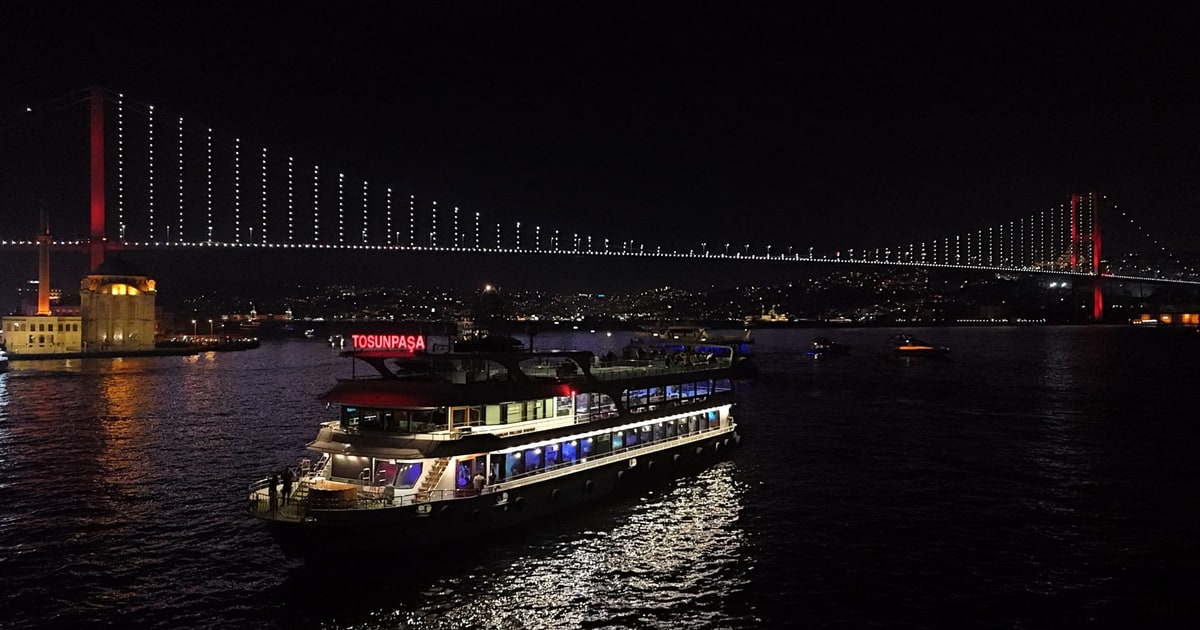
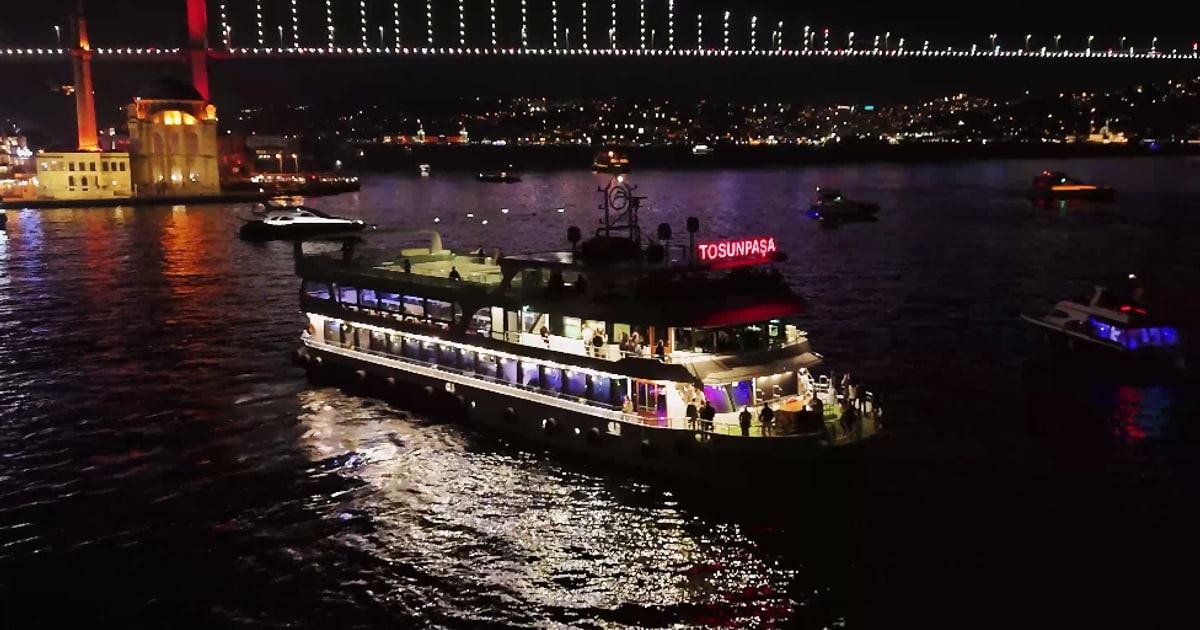
fix: halal badge wording + new og-image (TOSUNPAŞA drone night shot)
Çözüm 1 — halalTax badge updated across 15 languages:
  OLD: "Halal · All taxes incl." (caused Google snippet to show just "Halal",
       misleading guests into thinking alcohol-free)
  NEW: "Halal options · Wine & cocktails · Taxes incl."
  Files: index.html:786,849 + js/translations.js + 9 ui-translations/*.json

Çözüm 2 — og-image replaced:
  Old: boat-night-bridge.jpg based (single lit boat, touristy feel)
  New: assets/data/og-image.jpg (1200x630, 129 KB, mozjpeg q88) from drone
       night shot — TOSUNPAŞA boat + Bosphorus Bridge + Ortaköy Mosque in
       one frame, clean composition, no watermarks or subtitles
  Source kept at assets/data/og-source.png for future re-cropping

Dev deps added: sharp, ffmpeg-static (for image pipeline)
Build verified: 1671 JSON-LD blocks, 0 validation errors.

diff --git a/index.html b/index.html
@@ -783,7 +783,7 @@
               <div class="flex flex-wrap gap-1.5 mb-4 text-[10px]">
                 <span class="text-white/40 bg-white/5 px-2 py-0.5 rounded-full border border-white/10">3hrs · 21:00</span>
                 <span class="text-gold/60 bg-gold/5 px-2 py-0.5 rounded-full border border-gold/10" data-i18n="dinner.privateTable">Private table</span>
-                <span class="text-white/40 bg-white/5 px-2 py-0.5 rounded-full border border-white/10" data-i18n="dinner.halalTax">Halal · All taxes incl.</span>
+                <span class="text-white/40 bg-white/5 px-2 py-0.5 rounded-full border border-white/10" data-i18n="dinner.halalTax">Halal options · Wine &amp; cocktails · Taxes incl.</span>
               </div>
               <div class="mb-4">
                 <p class="text-gold/70 text-[10px] uppercase tracking-wider font-semibold mb-1.5" data-i18n="dinner.menuLabel">What's Included</p>
@@ -846,7 +846,7 @@
               <div class="flex flex-wrap gap-1.5 mb-4 text-[10px]">
                 <span class="text-white/40 bg-white/5 px-2 py-0.5 rounded-full border border-white/10">3hrs · 21:00</span>
                 <span class="text-gold/60 bg-gold/5 px-2 py-0.5 rounded-full border border-gold/10" data-i18n="dinner.nearStage">Near the stage</span>
-                <span class="text-white/40 bg-white/5 px-2 py-0.5 rounded-full border border-white/10" data-i18n="dinner.halalTax">Halal · All taxes incl.</span>
+                <span class="text-white/40 bg-white/5 px-2 py-0.5 rounded-full border border-white/10" data-i18n="dinner.halalTax">Halal options · Wine &amp; cocktails · Taxes incl.</span>
               </div>
               <div class="mb-4">
                 <p class="text-gold/70 text-[10px] uppercase tracking-wider font-semibold mb-1.5" data-i18n="dinner.menuLabel">What's Included</p>

diff --git a/js/translations.js b/js/translations.js
@@ -1254,9 +1254,21 @@ const T = {
     fa: "لغو رایگان ۲ ساعت پیش", fr: "Annulation gratuite 2h", it: "Cancellazione gratuita 2h", zh: "2小时前免费取消", id: "Batal gratis 2 jam", ms: "Batal percuma 2jam", pl: "Bezpłatna anulacja 2h", bg: "Безплатна отмяна 2 ч.", ro: "Anulare gratuită 2 ore"
   },
   "dinner.halalTax": {
-    en: "Halal", tr: "Helal", de: "Halal", es: "Halal",
-    ru: "Халяль", ar: "حلال",
-    fa: "حلال", fr: "Halal", it: "Halal", zh: "清真", id: "Halal", ms: "Halal", pl: "Halal", bg: "Халал", ro: "Halal"
+    en: "Halal options · Wine & cocktails · Taxes incl.",
+    tr: "Helal seçenekler · Şarap ve kokteyl · Vergi dahil",
+    de: "Halal Optionen · Wein & Cocktails · Steuer inkl.",
+    es: "Opciones halal · Vino y cócteles · Impuestos incl.",
+    ru: "Халяль-варианты · Вино и коктейли · Налоги вкл.",
+    ar: "خيارات حلال · نبيذ وكوكتيلات · الضرائب شاملة",
+    fa: "گزینههای حلال · شراب و کوکتل · مالیات شامل",
+    fr: "Options halal · Vin & cocktails · Taxes incl.",
+    it: "Opzioni halal · Vino e cocktail · Tasse incl.",
+    zh: "清真选项 · 葡萄酒与鸡尾酒 · 含税",
+    id: "Opsi halal · Anggur & koktail · Termasuk pajak",
+    ms: "Pilihan halal · Wain & koktel · Termasuk cukai",
+    pl: "Opcje halal · Wino & koktajle · Podatki wlicz.",
+    bg: "Халал опции · Вино и коктейли · Вкл. данъци",
+    ro: "Opțiuni halal · Vin și cocktailuri · Taxe incl."
   },
   "meeting.share": {
     en: "Exact meeting location will be shared via WhatsApp, Telegram or WeChat after booking.",
